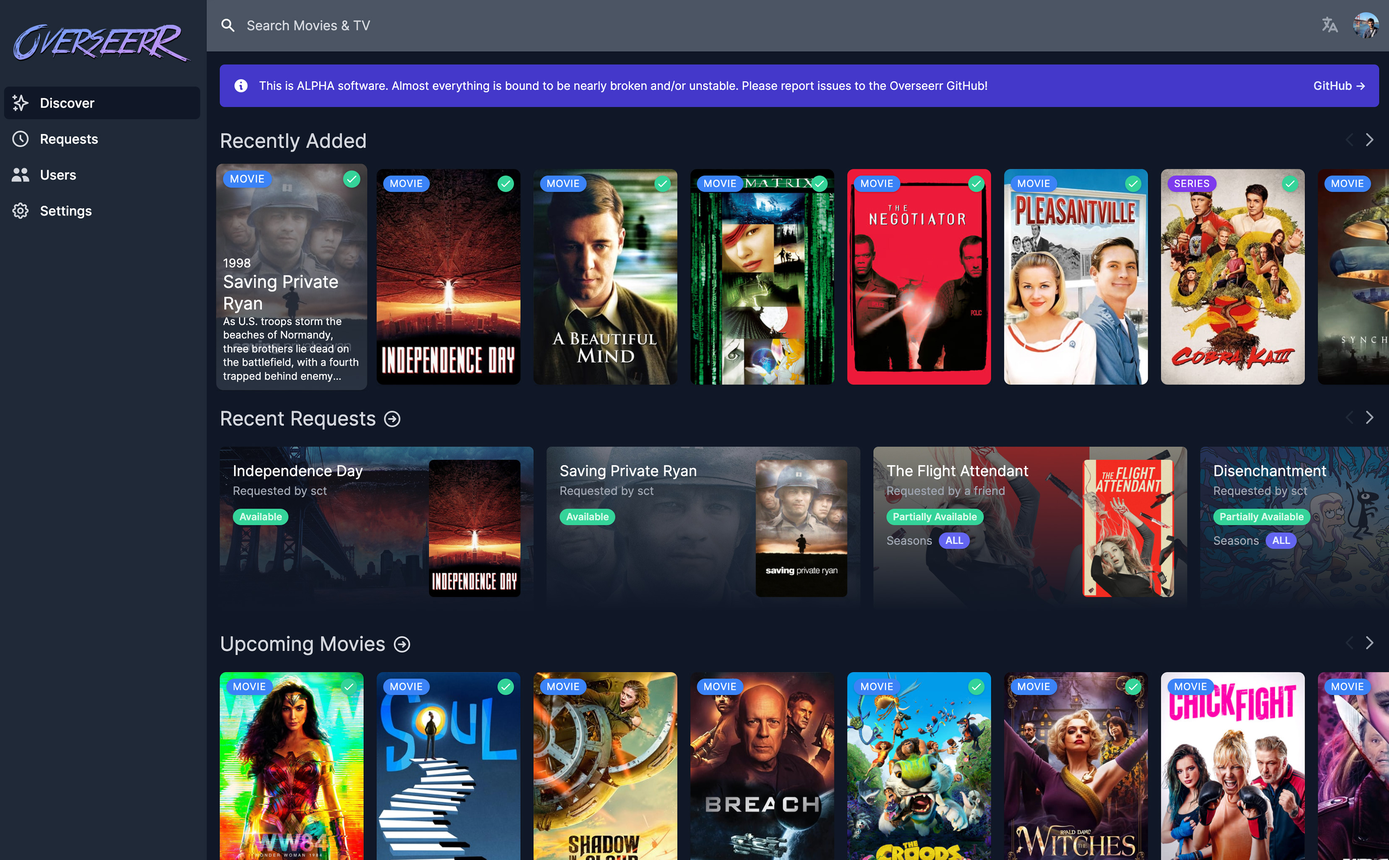
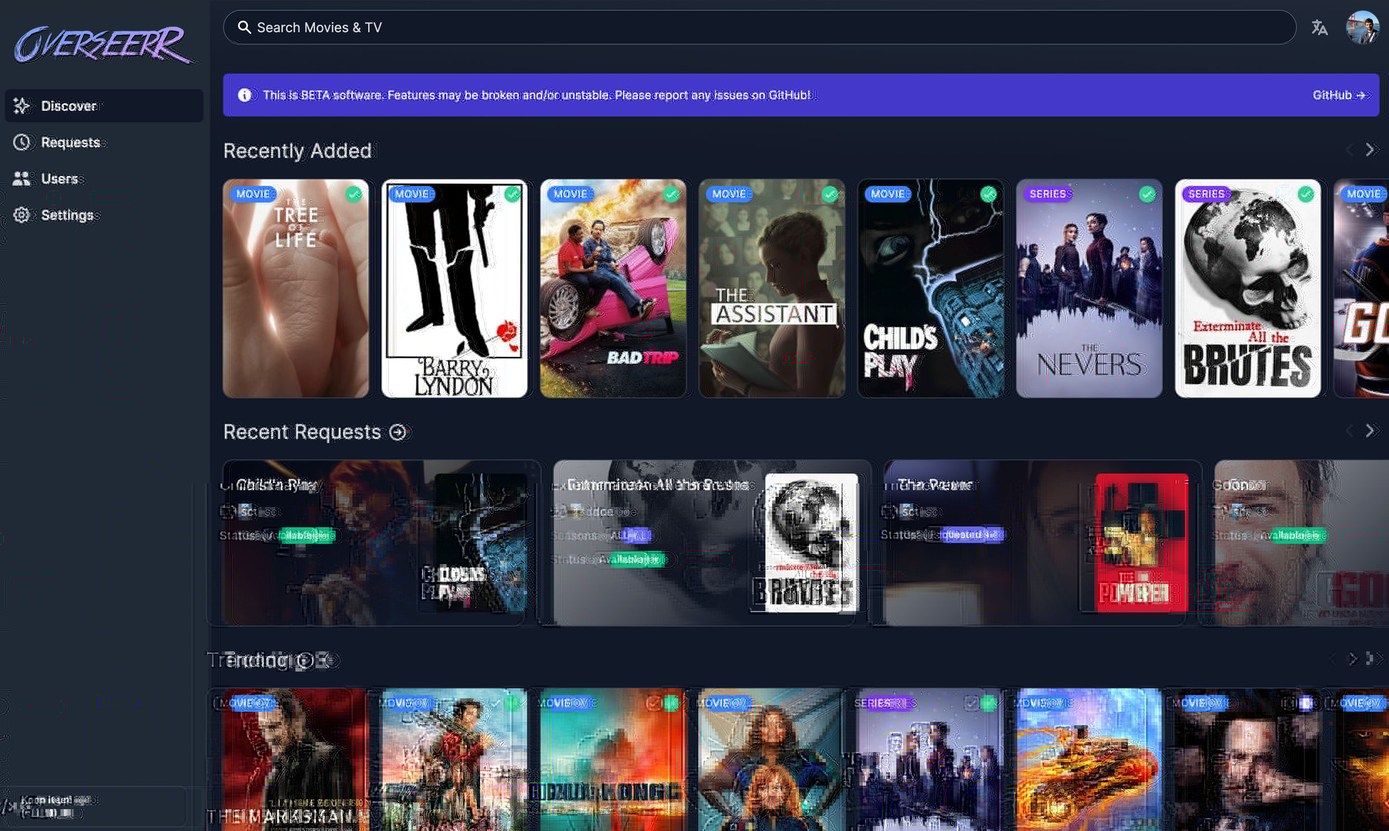
feat: change alpha warning to beta warning

diff --git a/src/components/Layout/index.tsx b/src/components/Layout/index.tsx
@@ -8,8 +8,8 @@ import Sidebar from './Sidebar';
 import UserDropdown from './UserDropdown';
 
 const messages = defineMessages({
-  alphawarning:
-    'This is ALPHA software. Features may be broken and/or unstable. Please report any issues on GitHub!',
+  betawarning:
+    'This is BETA software. Features may be broken and/or unstable. Please report any issues on GitHub!',
 });
 
 const Layout: React.FC = ({ children }) => {
@@ -102,7 +102,7 @@ const Layout: React.FC = ({ children }) => {
                     </div>
                     <div className="flex-1 ml-3 md:flex md:justify-between">
                       <p className="text-sm leading-5 text-white">
-                        {intl.formatMessage(messages.alphawarning)}
+                        {intl.formatMessage(messages.betawarning)}
                       </p>
                       <p className="mt-3 text-sm leading-5 md:mt-0 md:ml-6">
                         <a

diff --git a/README.md b/README.md
@@ -22,45 +22,20 @@
 
 - Full Plex integration. Authenticate and manage user access with Plex!
 - Easy integration with your existing services. Currently, Overseerr supports Sonarr and Radarr. More to come!
-- Plex library sync, to keep track of the titles which are already available.
+- Plex library scan, to keep track of the titles which are already available.
 - Customizable request system, which allows users to request individual seasons or movies in a friendly, easy-to-use interface.
 - Incredibly simple request management UI. Don't dig through the app to simply approve recent requests!
 - Granular permission system.
 - Support for various notification agents.
 - Mobile-friendly design, for when you need to approve requests on the go!
 
-## Planned Features
-
-- Additional notification types.
-- Issues system. This will allow users to report issues with content on your media server.
-- And a ton more! Check out our [issue tracker](https://github.com/sct/overseerr/issues) to see the features which have already been requested.
+With more features on the way! Check out our [issue tracker](https://github.com/sct/overseerr/issues) to see the features which have already been requested.
 
 ## Getting Started
 
 Check out our documentation for instructions on how to install and run Overseerr:
 
 https://docs.overseerr.dev/getting-started/installation
-
-## Running Overseerr
-
-Currently, Overseerr is primarily distributed as Docker images. If you have Docker installed, you can simply run Overseerr with:
-
-```
-docker run -d \
-  --name overseerr \
-  -e LOG_LEVEL=info \
-  -e TZ=Asia/Tokyo \
-  -p 5055:5055 \
-  -v /path/to/appdata/config:/app/config \
-  --restart unless-stopped \
-  sctx/overseerr
-```
-
-After running Overseerr for the first time, configure it by visiting the web UI at http://[address]:5055 and completing the setup steps
-
-For more information and alternative installation methods, please see the [Overseerr documentation](https://docs.overseerr.dev/getting-started/installation).
-
-⚠ Overseerr is currently under very heavy, rapid development and things are likely to break often. We need all the help we can get to find bugs and get them fixed to hit a more stable release. If you would like to help test the bleeding edge, please use the `sctx/overseerr:develop` image instead! ⚠
 
 ## Preview
 
